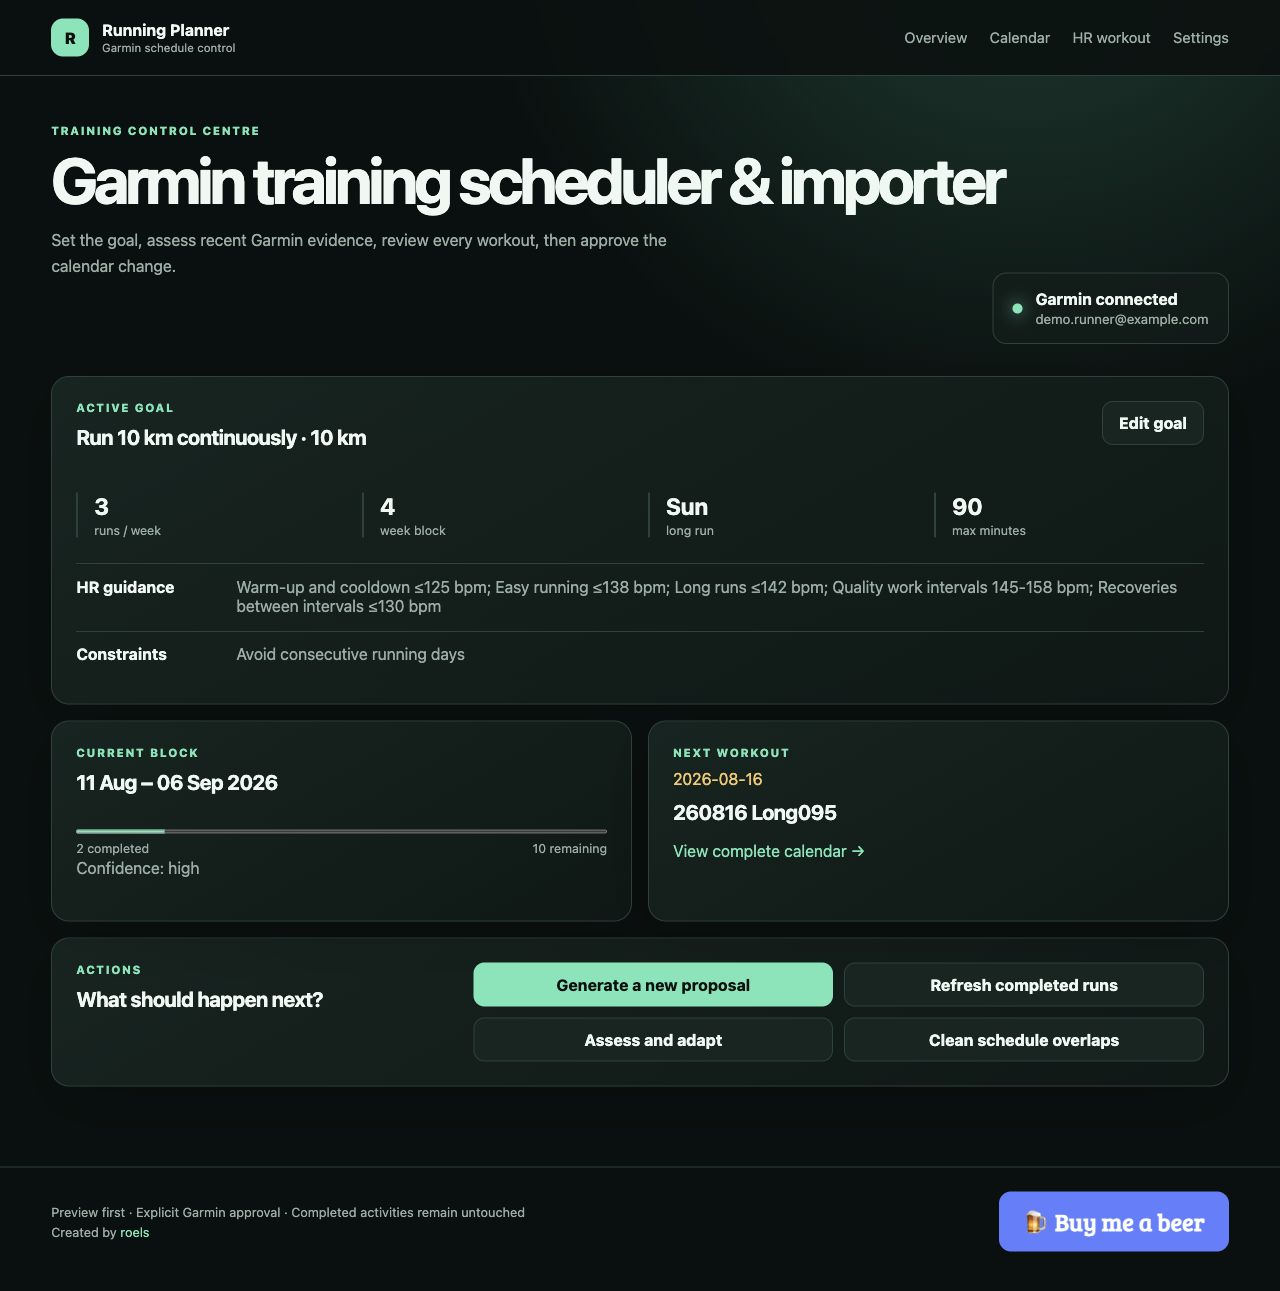
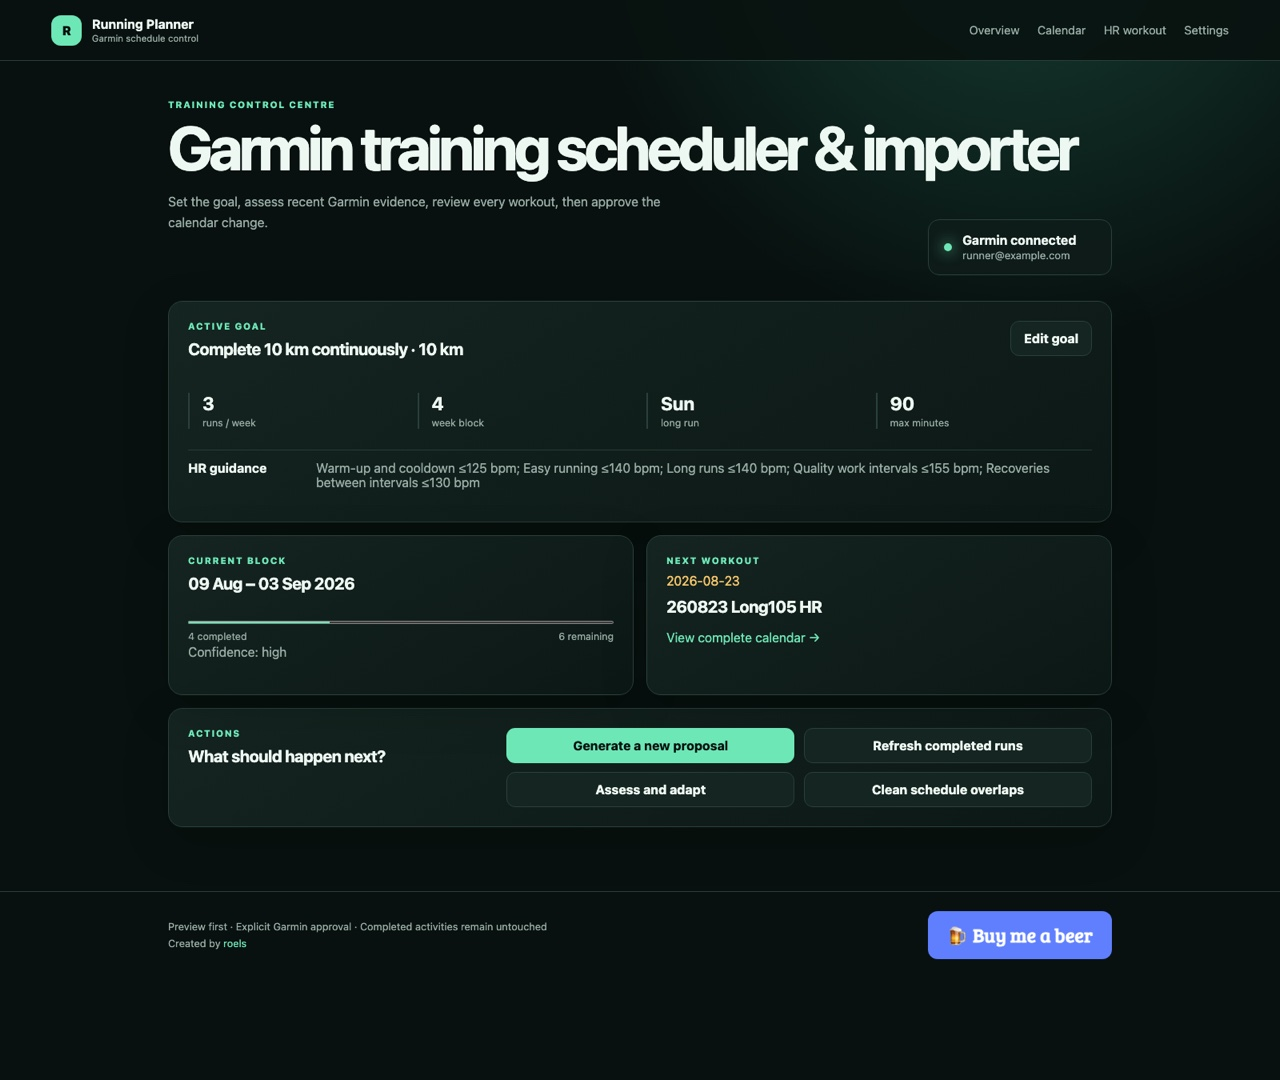
Refresh documentation and screenshots

diff --git a/docs/automation-roadmap.md b/docs/automation-roadmap.md
@@ -2,41 +2,44 @@
 
 The project keeps Garmin access, FIT assessment, training decisions, and user interfaces as separate layers. This avoids coupling evidence-based planning logic to Garmin's private API or to one command-line interface.
 
-## Implemented foundation
+## Implemented today
 
 1. **Garmin access** authenticates locally, lists running activities, and downloads original activity exports.
-2. **Assessment selection** adapts to training frequency, recommends a recent sample, and supports an explicit last-N override.
-3. **Private archive** extracts and validates FIT files, deduplicates them, and produces a versioned manifest with checksums.
-4. **Workout delivery** previews, creates or updates, and schedules dated running workouts.
-5. **Plan retirement** previews exact Garmin targets, protects definitions reused by active plans, unschedules future entries, and removes old workout templates without touching recorded activities.
+2. **Assessment selection** adapts to training frequency, recommends a recent 6–16-run sample, and supports an explicit last-N override.
+3. **Private FIT evidence** extracts and validates downloads, deduplicates them, records checksums in a versioned manifest, and decodes them locally with Garmin's FIT SDK.
+4. **Deterministic planning** combines a structured goal, availability, constraints, demonstrated recent frequency, median duration, longest-run exposure, and confidence rules into a reviewable dated proposal.
+5. **Supervised adaptation** refreshes completed and missed dates, reassesses recent FIT evidence, and proposes changes only for dates that have not passed.
+6. **Progress evidence** stores active-block status in SQLite and shows completed, missed, current-day, and future workouts consistently in the CLI and web interface. Garmin workout execution scores are fetched once when available and cached locally.
+7. **Workout delivery** previews conflicts, creates or updates workout definitions, and schedules approved dated running workouts.
+8. **Protected retirement and cleanup** previews exact Garmin targets, protects definitions reused by active plans, unschedules obsolete future entries, and can remove old workout templates without touching recorded activities.
 
-The manifest is the boundary between acquisition and analysis. A future UI should consume the manifest rather than call CLI parsing code.
+The manifest and analysis JSON are stable boundaries between acquisition, interpretation, planning, and delivery. Both the CLI and web interface call the same Python domain services instead of duplicating Garmin or planning logic.
 
-## Next intelligence layer
+## Further intelligence work
 
-A FIT analysis service can add derived, reproducible metrics to a second versioned artifact:
+The current FIT analyzer already records activity summaries, laps, record-level samples, data-quality flags, and descriptive pace-to-heart-rate decoupling when sufficient fields exist. Useful next steps are:
 
-- activity and moving time, distance, pace, heart-rate distribution, and elevation;
-- interval rep execution and recovery between efforts;
-- pace-to-heart-rate relationship and within-run aerobic decoupling;
-- cadence, ground-contact time, vertical oscillation, and left/right balance when recorded;
-- long-run continuity, stopped time, and week-over-week load;
-- data-quality flags for missing sensors, GPS problems, or implausible values.
+- compare planned steps with recorded laps or structured-workout steps instead of relying mainly on date-level adherence;
+- derive repeatable interval consistency and recovery summaries with explicit data-quality requirements;
+- add longitudinal load and comparable-session views without turning one metric into an automatic progression rule;
+- collect optional runner-reported RPE, recovery, pain, illness, weather, and reasons for modifying a workout;
+- expose the evidence, rule, confidence, and resulting change for every proposed adaptation; and
+- support separately versioned planning strategies that can be evaluated against fixtures before becoming selectable.
 
-The analysis result should record which FIT fields supported each conclusion. Subjective RPE, sleep, terrain, weather, illness, injury, schedule changes, and optional health-professional instructions require explicit user input and must not be inferred from FIT data.
+Analysis output should continue to record which FIT fields supported each conclusion. Subjective RPE, sleep, terrain, weather, illness, injury, schedule changes, and optional health-professional instructions require explicit user input and must not be inferred from FIT data.
 
 ## Plan policy layer
 
-Plan generation should take structured assessment results plus explicit constraints and produce a previewable YAML proposal. It should remain conservative and explain every progression or regression. Applying the plan to Garmin must continue to require an explicit action.
+Plan generation takes structured assessment results plus explicit constraints and produces a previewable YAML proposal. It remains conservative and explains its confidence and main construction decisions. Applying or replacing a plan in Garmin continues to require an explicit action.
 
 Useful policy inputs include training age, available days, long-run preference, target event or performance, recent adherence, current tolerable distance, reported effort, injury status, and any user-defined limits. Health constraints are optional inputs supplied by the runner; the planner does not infer diagnoses or medical clearance from activity data.
 
 ## Application path
 
-1. Keep the Python services as the local engine and expose structured JSON inputs/outputs.
-2. Add a small local API or subprocess protocol for a macOS application.
-3. Use platform-secure credential storage rather than `.env` in a distributed app.
-4. Add a review screen for selected activities, assessment findings, and the proposed calendar before upload.
-5. Reuse the plan and manifest schemas in an iOS client, with Garmin authentication constraints evaluated separately.
+1. Formalize a versioned local API or subprocess protocol around the existing Python services and JSON/YAML artifacts.
+2. Add a richer evidence review showing selected activities, data-quality limits, assessment findings, and planned-versus-completed details.
+3. Separate profiles, credentials, and mutable state safely before considering a multi-user service.
+4. Use platform-secure credential storage in a distributed desktop or mobile application while retaining an architecture-neutral file-token option for servers.
+5. Reuse the goal, plan, manifest, and analysis schemas in macOS/iOS clients, with Garmin authentication constraints evaluated separately.
 
 Garmin Connect uses private endpoints that can change without notice. The application should present authentication and API failures clearly, retain local data, and never silently alter a training calendar.

diff --git a/README.md b/README.md
@@ -8,13 +8,13 @@ Current release: **1.0.0** · [Changelog](CHANGELOG.md) · [Release notes](docs/
 
 ## Screenshots
 
-These examples use an anonymized demo runner; they contain no real Garmin credentials or activity data.
+These examples use a fully synthetic runner profile; they contain no real Garmin credentials or activity data. The calendar deliberately includes completed, missed, current-day, and future workouts so every visual state is represented.
 
 ![Web dashboard showing the active running goal, heart-rate guidance, training-block progress, and next workout](docs/images/web-dashboard.jpg)
 
-| Four-week training calendar | Heart-rate workout builder |
+| Status-aware training calendar | Heart-rate workout builder |
 | --- | --- |
-| ![Training calendar showing completed and scheduled running workouts](docs/images/web-calendar.jpg) | ![Heart-rate workout builder with sequential time and maximum-BPM steps](docs/images/web-heart-rate-workout.jpg) |
+| ![Training calendar showing completed runs with execution scores, missed runs, today's next workout, and future scheduled runs](docs/images/web-calendar.jpg) | ![Heart-rate workout builder with sequential time and maximum-BPM steps](docs/images/web-heart-rate-workout.jpg) |
 
 ## Features
 
@@ -33,6 +33,8 @@ These examples use an anonymized demo runner; they contain no real Garmin creden
 - Local decoding of FIT files with Garmin's official FIT SDK.
 - An interactive, goal-driven planner: no YAML editing is required for normal use.
 - A dashboard with the active goal, completed/missed/remaining days, and the next workout.
+- A date-aware calendar that subdues finished dates, identifies missed runs, highlights today's workout, and keeps the next actionable run obvious.
+- Garmin workout execution scores for completed planned runs, fetched once from original FIT data when necessary and cached locally.
 - Supervised mid-block adaptation that replaces only future workouts after explicit approval.
 - Garmin-side overlap detection with explicit consent to retire pre-existing schedules and obsolete templates.
 - An on-demand cleanup action that protects the active local plan while removing older Garmin entries on the same dates.
@@ -81,7 +83,7 @@ On first use, the wizard asks only for the information needed to construct a pla
 3. Whether optional LLM explanations should be enabled. The planner itself does not require an LLM.
 4. Whether to fetch recent Garmin history, generate a proposal, and review it before scheduling.
 
-Later starts open a readable dashboard. From there, refresh completed runs, view the full calendar, revise the goal, generate a new block, or assess completed FIT files and propose an adaptation to the remaining dates.
+Later starts open a readable dashboard. From there, refresh completed runs and their available Garmin execution scores, view the full status-aware calendar, revise the goal, generate a new block, or assess completed FIT files and propose an adaptation to the remaining dates.
 
 Nothing is changed in Garmin merely by opening the app or generating a proposal. Upload, scheduling, and replacement each require confirmation. When replacing a block, the tool uploads the approved replacement first, then unschedules future entries from the retired block and deletes only its obsolete workout templates. Completed Garmin activities and downloaded FIT files are never deleted.
 
@@ -95,7 +97,7 @@ The main menu also includes **Create a one-off heart-rate workout**. It builds s
 
 The architecture-independent local state defaults to `~/.garmin-running-workouts/` and contains:
 
-- `state.sqlite3`: goals, plan history, progress, settings, and an audit trail;
+- `state.sqlite3`: goals, plan history, workout status, cached execution scores, settings, and an audit trail;
 - `tokens/`: reusable Garmin session tokens;
 - `plans/`: generated, reviewable YAML plans;
 - `activities/`: private FIT assessment bundles and decoded JSON evidence.
@@ -128,13 +130,27 @@ The web dashboard provides:
 
 - goal, availability, distance/time/pace, planning-period, and constraint forms;
 - independent maximum-BPM, BPM-range, or Garmin-zone targets for every workout phase;
-- current block progress, next workout, and complete calendar views;
+- current block progress, next workout, and a status-aware calendar with completed, missed, today, and future states;
+- cached Garmin execution scores for completed planned workouts when the activity FIT file provides one;
 - preview-only plan generation and FIT-driven adaptation;
 - an explicit Garmin conflict inspection and removal decision before application;
 - protected cleanup of duplicates already present in Garmin;
 - a dynamic one-off heart-rate workout builder;
 - Garmin reconnection without storing the password; and
 - optional provider-neutral LLM settings without storing an API key.
+
+### Calendar status and execution scores
+
+The CLI and web calendar use the same local progress state:
+
+- **Completed** means a running activity was matched to that planned date. The row is subdued because no action remains.
+- **Missed** means the planned date has passed without a matched run after a progress refresh. If the date has elapsed but Garmin has not yet been refreshed, the web calendar shows **Missed · needs refresh** so provisional state is not mistaken for confirmed history.
+- **Today · scheduled** marks a planned run on the current date. The first scheduled workout on today or a future date also receives the prominent **Next** treatment.
+- **Scheduled** identifies later workouts that remain in the active block.
+
+For a completed planned run, the tool displays Garmin's workout execution score when Garmin recorded one. If the normal activity summary does not include it, the refresh workflow downloads that activity's original FIT file once, reads the score, and caches both the value and the checked state in SQLite. Later page loads do not download the activity again.
+
+Garmin describes this score as adherence to the targets of a structured workout, not as a general fitness, effort, recovery, or health score. Garmin only calculates it for workouts with heart-rate, speed, pace, or power targets. The interface uses Garmin's documented bands: **good** 67–100%, **average** 34–66%, and **low** 0–33%. A completed run can legitimately show **Execution score unavailable** when no supported target or score was recorded. See Garmin's [workout execution score documentation](https://www8.garmin.com/manuals/webhelp/GUID-69467D38-DE67-4A49-A78A-F7C809EFF8B5/EN-US/MARQ_Athlete_%28Gen_2%29_OM_EN-US.pdf).
 
 For local development only:
 

diff --git a/CHANGELOG.md b/CHANGELOG.md
@@ -10,6 +10,11 @@ All notable changes to Garmin Running Workouts Import are documented here. The p
 - Completed planned runs now show Garmin's workout execution score in the web and CLI calendars when the FIT activity provides one.
 - Execution scores are fetched once per newly completed planned run and cached locally to avoid repeated Garmin requests.
 
+### Changed
+
+- Refreshed the anonymized web screenshots to show the current calendar hierarchy, including completed scores, missed dates, today's next workout, and future scheduled runs.
+- Updated the README and automation roadmap to distinguish implemented FIT analysis and adaptation features from future work.
+
 ## [1.0.0] - 2026-08-20
 
 First stable release of the running-only Garmin planning and scheduling application.
